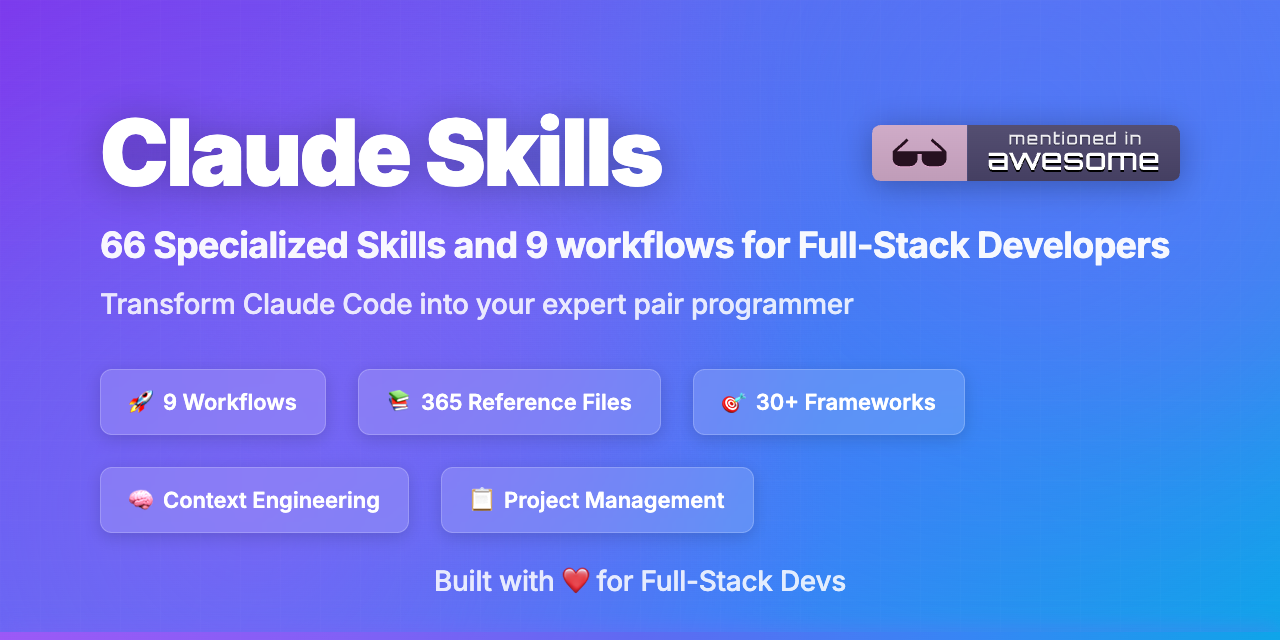
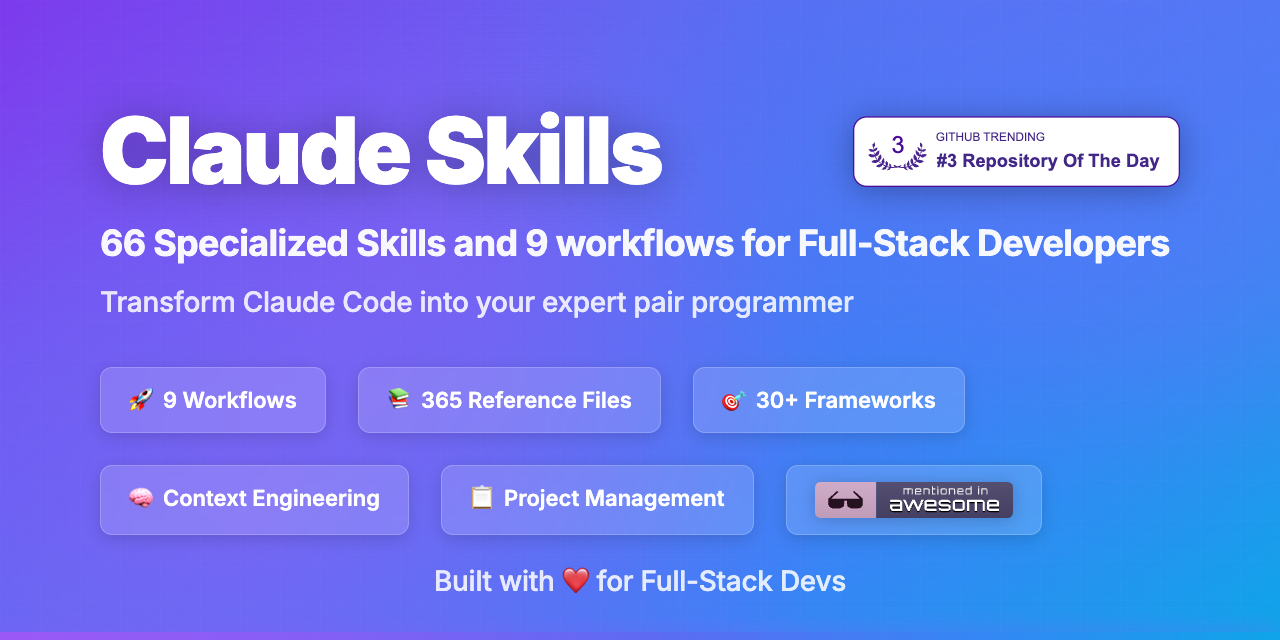
updates social preview

diff --git a/assets/social-preview.html b/assets/social-preview.html
@@ -111,10 +111,17 @@
             text-shadow: 0 2px 40px rgba(0, 0, 0, 0.3);
         }
 
-        /* Awesome badge */
-        .awesome-badge {
-            height: 56px;
+        /* Trendshift badge in title row */
+        .trendshift-title-badge {
+            height: 72px;
             filter: drop-shadow(0 4px 16px rgba(0, 0, 0, 0.3));
+            border-radius: 8px;
+        }
+
+        /* Awesome badge in stats row */
+        .awesome-badge-stat {
+            height: 36px;
+            filter: drop-shadow(0 2px 8px rgba(0, 0, 0, 0.2));
         }
 
         /* Subtitle */
@@ -251,7 +258,7 @@
             <!-- Title row with badge -->
             <div class="title-row">
                 <h1 class="title">Claude Skills</h1>
-                <img src="https://awesome.re/mentioned-badge.svg" class="awesome-badge" alt="Mentioned in Awesome Claude Code"/>
+                <img src="https://trendshift.io/api/badge/repositories/20667" class="trendshift-title-badge" alt="Trendshift"/>
             </div>
 
             <!-- Subtitle -->
@@ -289,6 +296,11 @@
                     <div class="stat-content">
                         <span class="stat-icon">📋</span>
                         <span>Project Management</span>
+                    </div>
+                </div>
+                <div class="stat">
+                    <div class="stat-content">
+                        <img src="https://awesome.re/mentioned-badge.svg" class="awesome-badge-stat" alt="Mentioned in Awesome Claude Code"/>
                     </div>
                 </div>
             </div>
